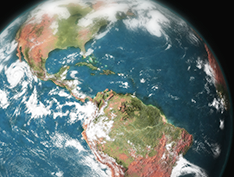
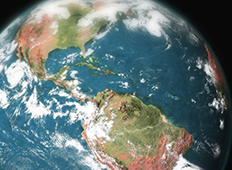
now that we're directly pointed to the images, lets make sure that we don't trigger a scale. (the viewable area is 232x170, so make them that size)
git-svn-id: https://repos.nextthought.com/svn/nti-svn/NextThoughtLoginApp/trunk@26151 3dfb626b-079f-4ab1-a9f6-4654e5377508

diff --git a/src/main/WebApp/landing/platform.ou.edu/main.css b/src/main/WebApp/landing/platform.ou.edu/main.css
@@ -154,8 +154,8 @@ a.ou-btn {
 
 .grid-item img {
 	border: 0;
-	width: 234px;
-	height: 177px;
+	width: 232px;
+	height: 170px;
 }
 
 .grid-item .meta {
